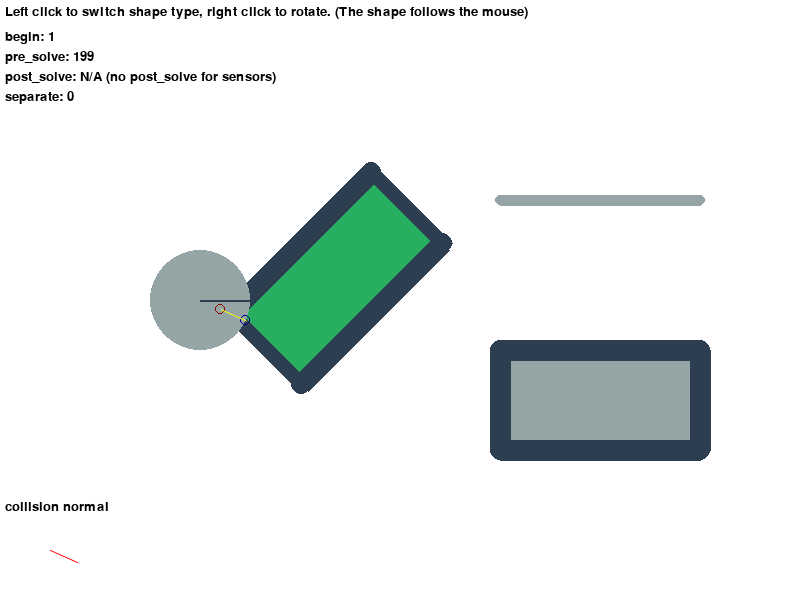
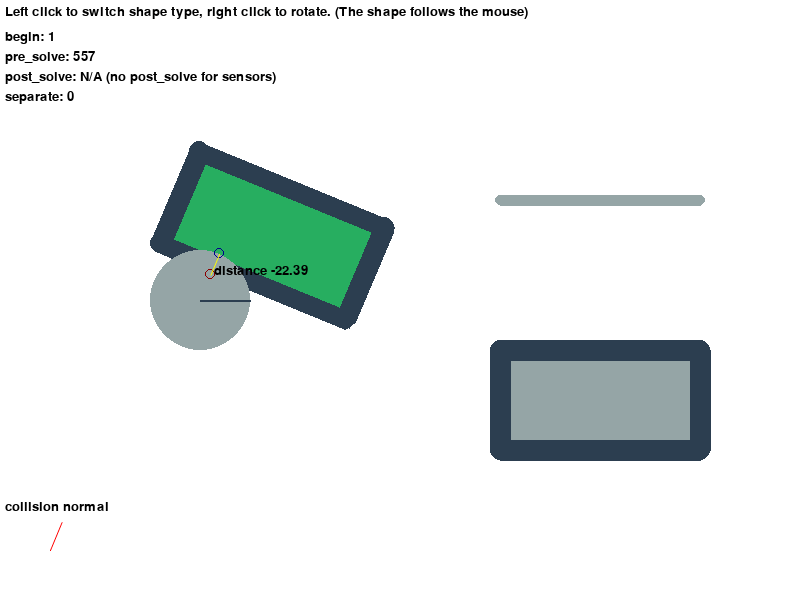
Update collisions exmaple

Changed region(s): [[0.1875, 0.24, 0.5625, 0.66], [0.0938, 0.06, 0.125, 0.12], [0.0625, 0.9, 0.0938, 0.93]]

diff --git a/pymunk/examples/collisions.py b/pymunk/examples/collisions.py
@@ -45,6 +45,15 @@ def pre_solve(arbiter: pymunk.Arbiter, space, data):
         pygame.draw.circle(screen, pygame.Color("darkred"), p.point_b, 5, 1)
         pygame.draw.aaline(screen, pygame.Color("yellow"), p.point_a, p.point_b)
 
+        screen.blit(
+            data["font"].render(
+                f"distance {p.distance:.2f}",
+                True,
+                pygame.Color("black"),
+            ),
+            (p.point_a.interpolate_to(p.point_b, 0.5)),
+        )
+
     return True
 
 
